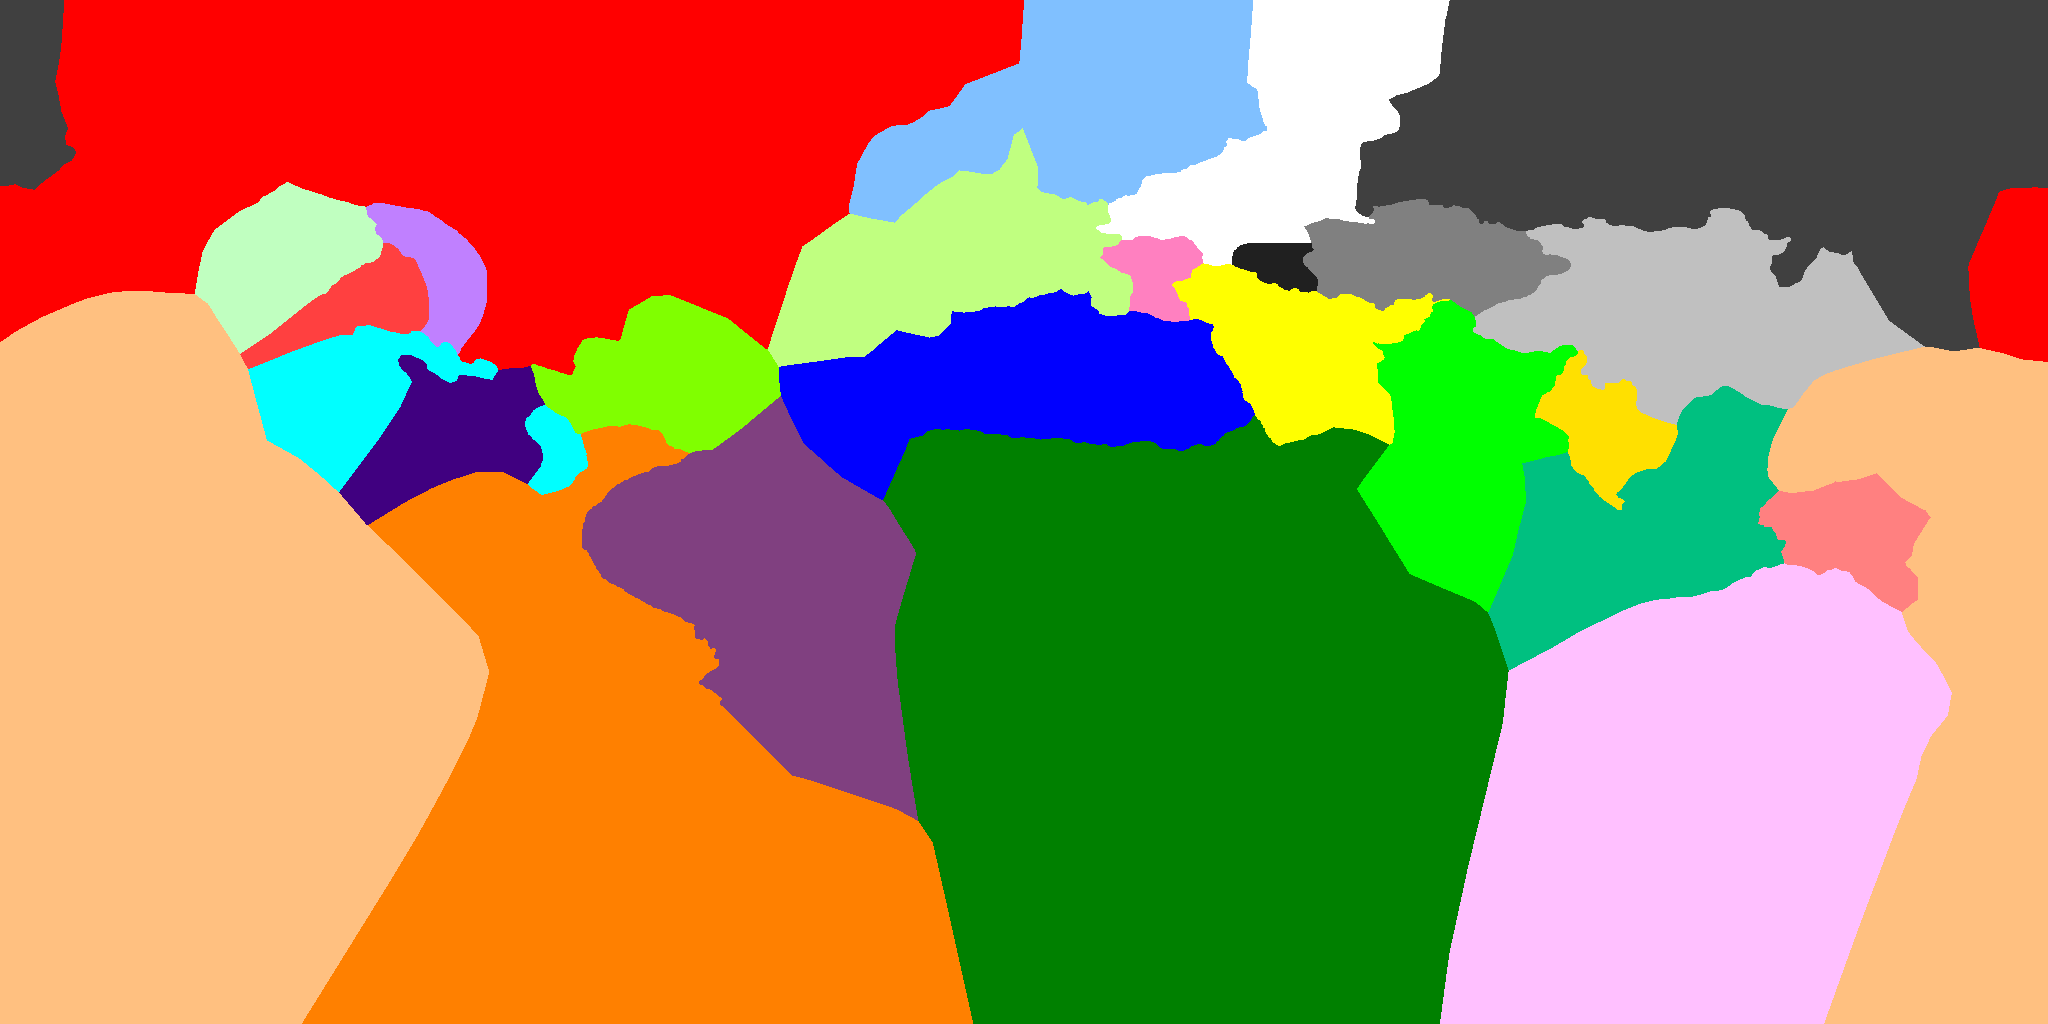
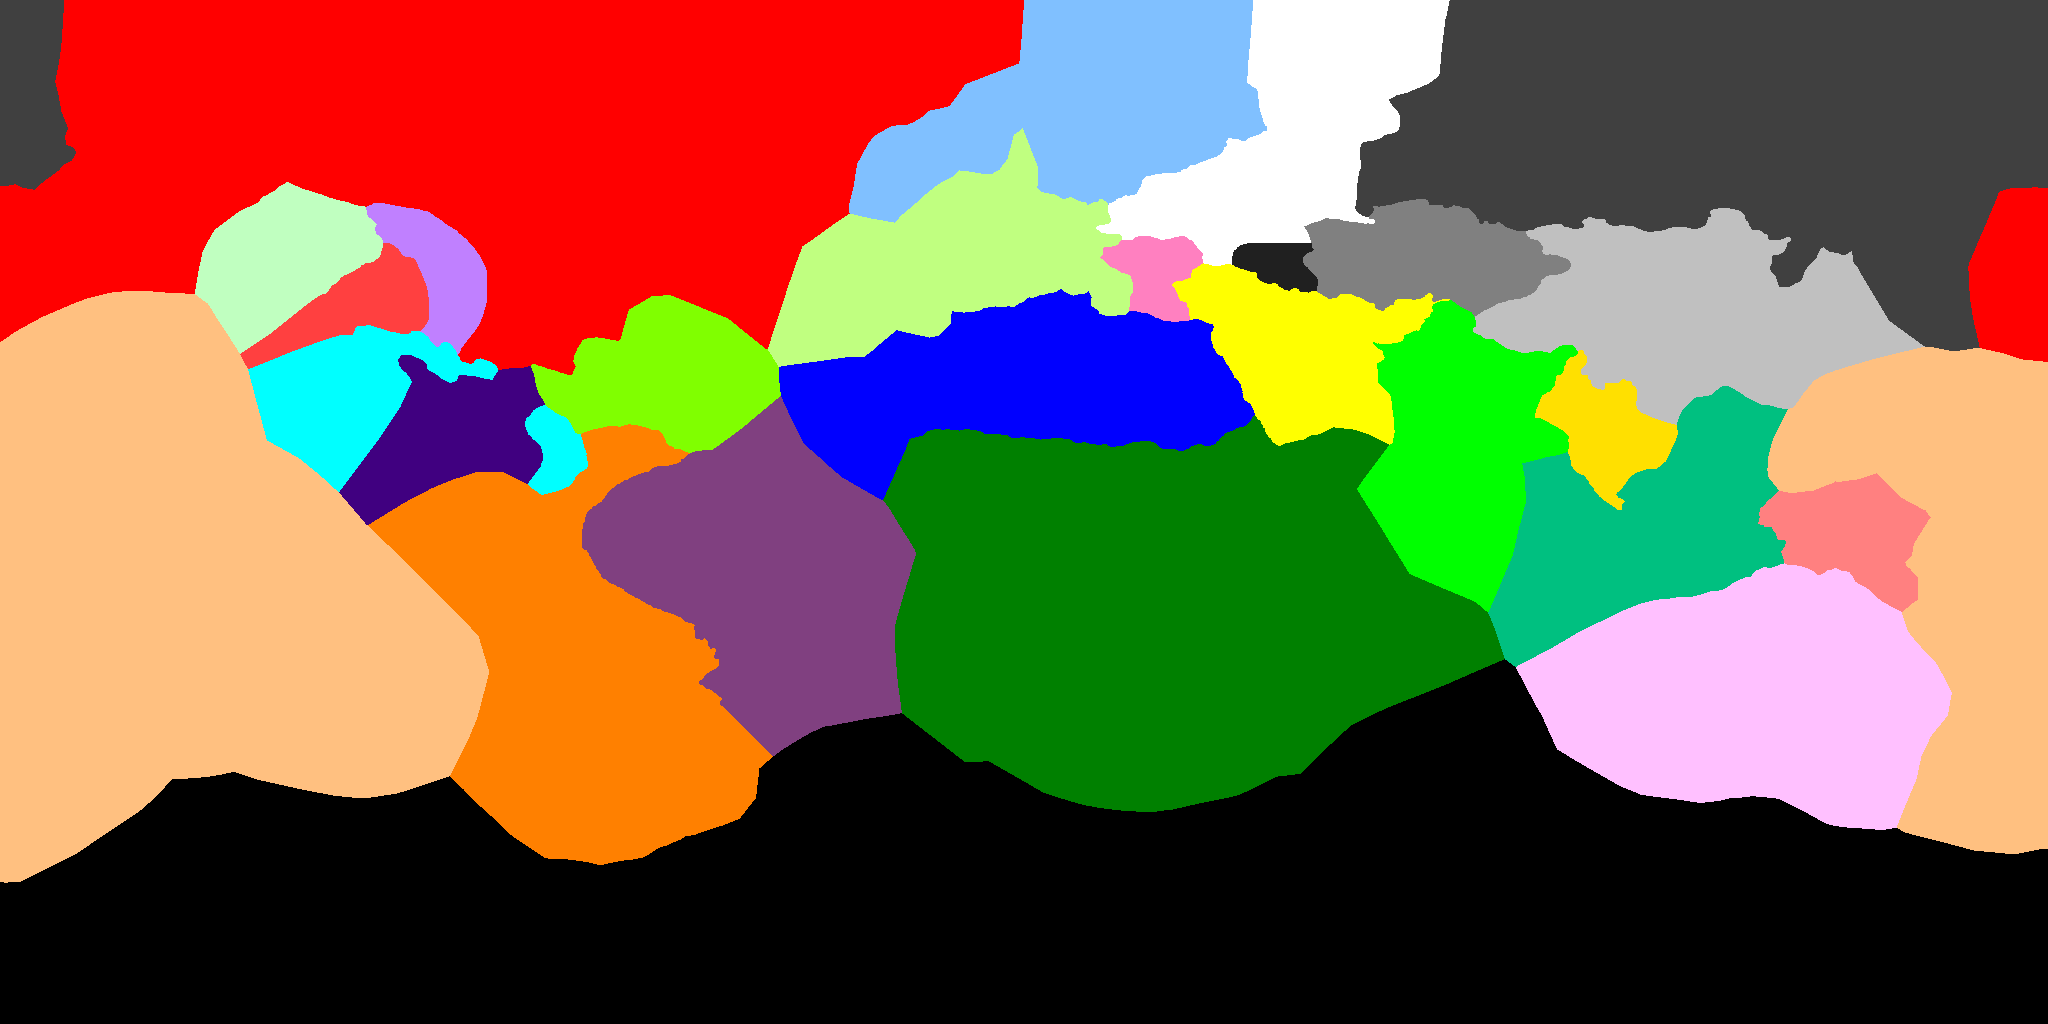
grdhgjygjkk

Changed region(s): [[0.0, 0.625, 1.0, 1.0]]

diff --git a/Geo.cs b/Geo.cs
@@ -7,7 +7,7 @@ namespace WalsParser {
 		BALKANS = 0xFFFF80C0,
 		EUROPE_WEST = 0xFFC0FF80,
 		EUROPE_NORTH = 0xFF80C0FF,
-		CAUCASUS = 0xFF000000,
+		CAUCASUS = 0xFF202020,
 		SIBERIA = 0xFF404040,
 		ASIA_CENTRAL = 0xFF808080,
 		ASIA_EAST = 0xFFC0C0C0,
@@ -29,6 +29,7 @@ namespace WalsParser {
 		MESOAMERICA = 0xFF400080,
 		AMAZON = 0xFF804080,
 		AMERICA_SOUTHWEST = 0xFF804080,
+		UNINHABITED = 0xFF000000,
 	}
 	class Region {
 		public static readonly List<Region> regions = new();
